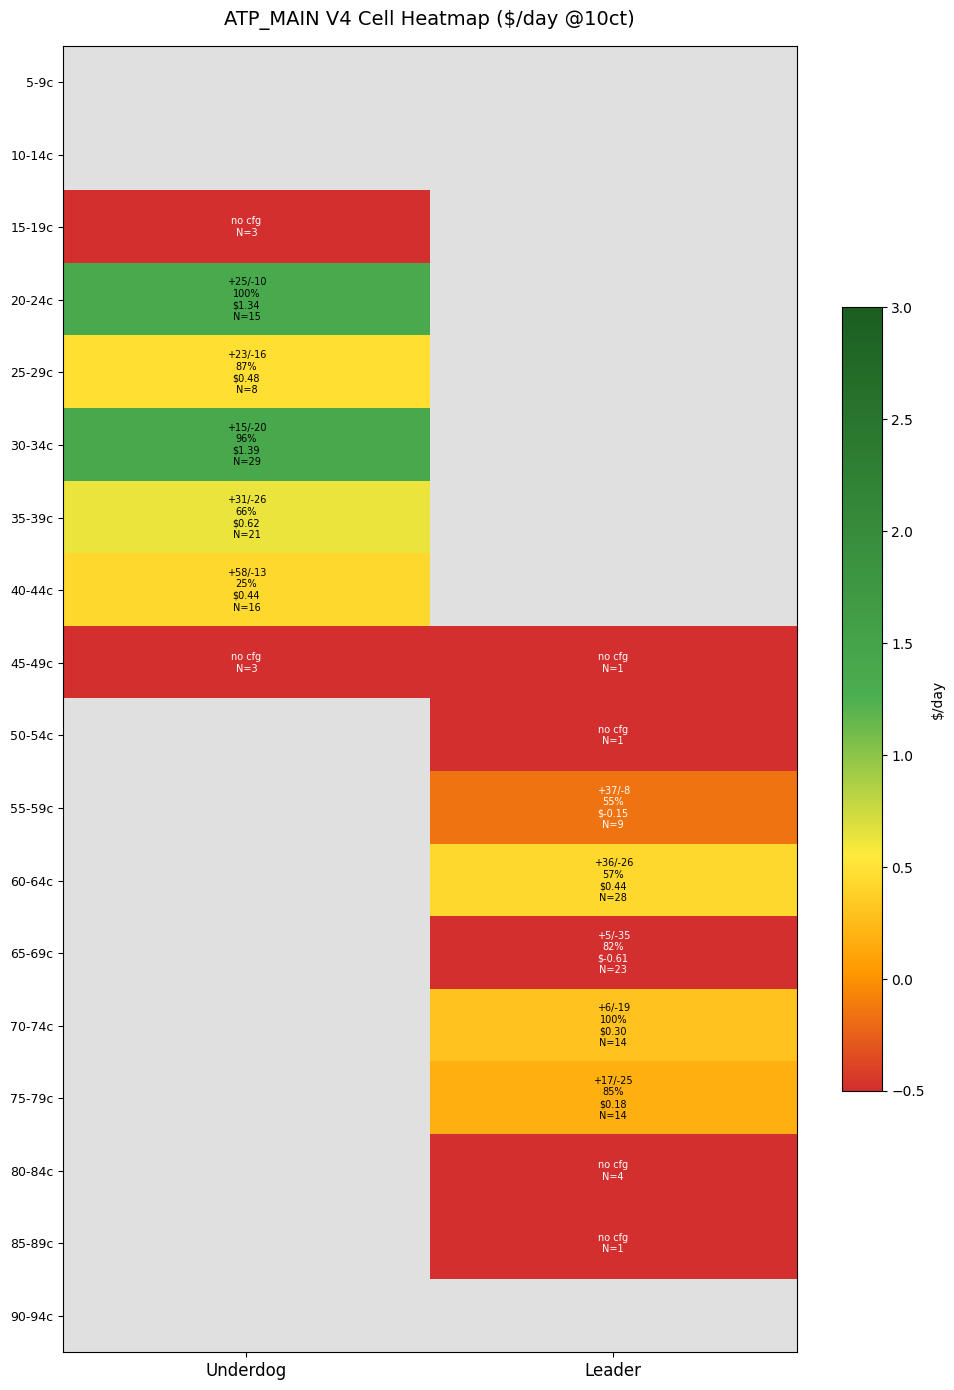
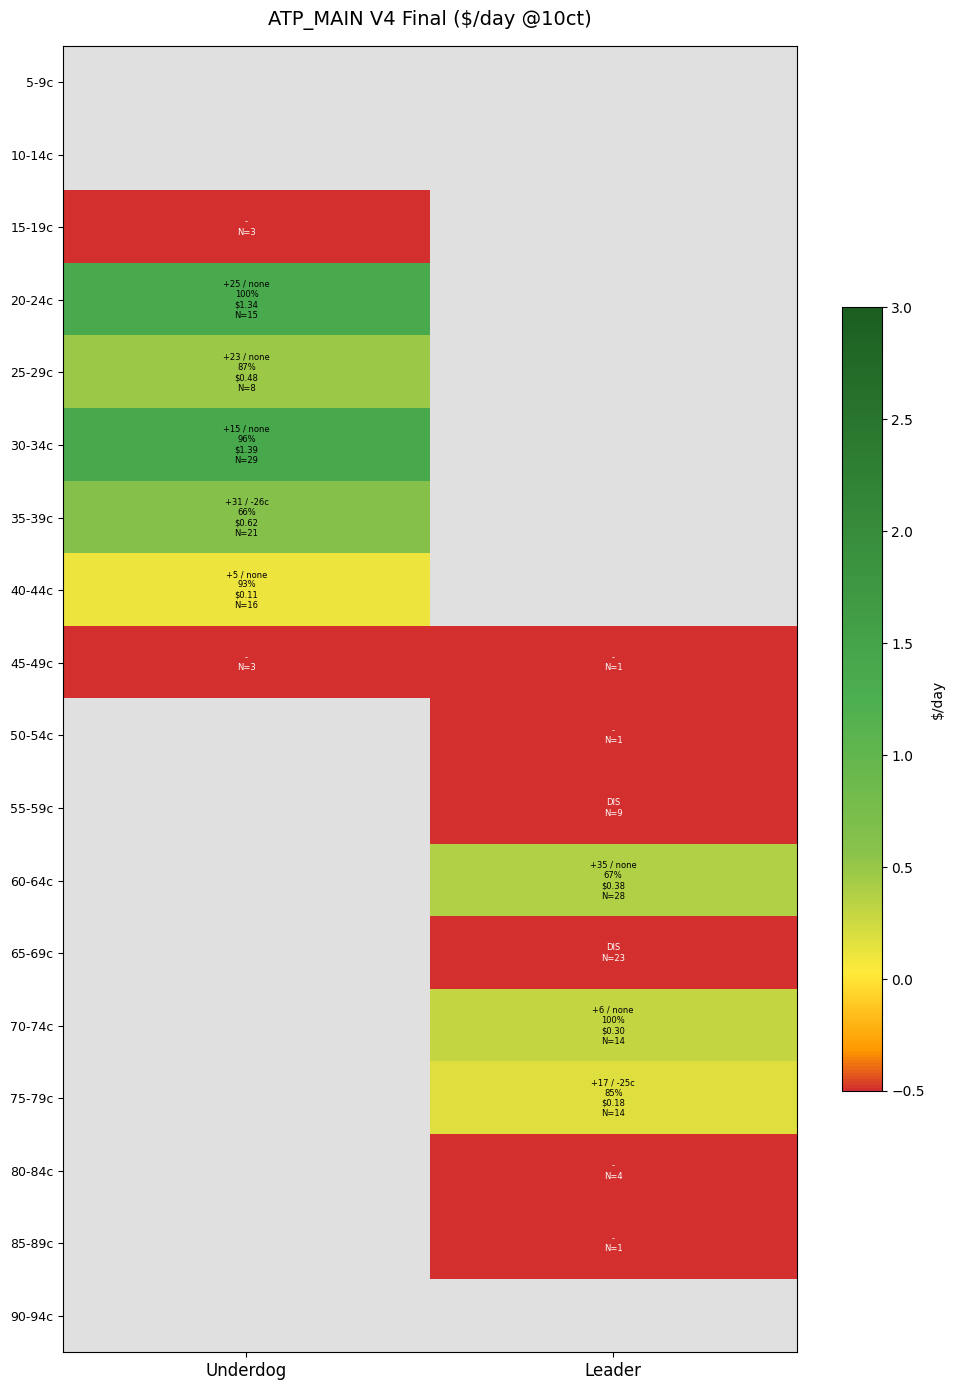
V4 final heatmaps: 32 cells, DCA visibility, pre-deploy visual confirmation

diff --git a/arb-executor/analysis/v4_final_heatmap.py b/arb-executor/analysis/v4_final_heatmap.py
@@ -1,0 +1,211 @@
+#!/usr/bin/env python3
+"""V4 final heatmap with DCA visibility."""
+import csv, json, os, math
+from pathlib import Path
+from collections import defaultdict
+import matplotlib
+matplotlib.use('Agg')
+import matplotlib.pyplot as plt
+import matplotlib.colors as mcolors
+import numpy as np
+
+ANALYSIS = "/root/Omi-Workspace/arb-executor/analysis"
+CONFIG_PATH = "/root/Omi-Workspace/arb-executor/config/deploy_v4.json"
+FACTS_PATH = os.path.join(ANALYSIS, "match_facts.csv")
+DAYS = 28; CT = 10
+
+config = json.load(open(CONFIG_PATH))
+
+facts_by_cell = defaultdict(list)
+with open(FACTS_PATH) as f:
+    for r in csv.DictReader(f):
+        entry = float(r["entry_mid"])
+        bucket = int(entry / 5) * 5
+        cell = "%s_%s_%d-%d" % (r["category"], r["side"], bucket, bucket + 4)
+        facts_by_cell[cell].append({
+            "max_bounce": float(r["max_bounce_from_entry"]),
+            "result": r["match_result"], "entry_mid": entry,
+        })
+
+BUCKETS = list(range(5, 95, 5))
+SIDES = ["underdog", "leader"]
+TOURS = ["ATP_MAIN", "ATP_CHALL", "WTA_MAIN", "WTA_CHALL"]
+
+def metrics(cell_name):
+    matches = facts_by_cell.get(cell_name, [])
+    n = len(matches)
+    cfg = config["active_cells"].get(cell_name)
+    disabled = cell_name in config.get("disabled_cells", [])
+    if not cfg or n == 0:
+        return {"n": n, "active": False, "disabled": disabled}
+    ex = cfg["exit_cents"]
+    dca = cfg.get("dca_trigger_cents", 0)
+    strategy = cfg.get("strategy", "noDCA")
+    hits = sum(1 for m in matches if m["max_bounce"] >= ex)
+    hit_rate = hits / n
+    total_pnl = 0
+    for m in matches:
+        if m["max_bounce"] >= ex:
+            total_pnl += ex
+        else:
+            settle = 99.5 if m["result"] == "win" else 0.5
+            total_pnl += (settle - m["entry_mid"])
+    ev = total_pnl / n
+    dpd = ev * CT / 100.0 * n / DAYS
+    dca_str = "-%dc" % dca if dca > 0 else "none"
+    return {"n": n, "active": True, "disabled": False, "exit": ex, "dca": dca,
+            "dca_str": dca_str, "strategy": strategy, "hit_rate": hit_rate, "dpd": dpd}
+
+# ASCII heatmaps
+for tour in TOURS:
+    print("\n" + "=" * 76)
+    print("  %s" % tour)
+    print("=" * 76)
+    print("%-8s | %-32s | %-32s" % ("BUCKET", "UNDERDOG", "LEADER"))
+    print("-" * 76)
+    for b in BUCKETS:
+        row = "%d-%dc  |" % (b, b+4)
+        for side in SIDES:
+            cell = "%s_%s_%d-%d" % (tour, side, b, b+4)
+            m = metrics(cell)
+            if m["active"]:
+                flag = "*" if m["n"] < 10 else ""
+                dca_part = "/ %s" % m["dca_str"]
+                txt = "+%d %s %d%% $%.2f N=%d%s" % (
+                    m["exit"], dca_part, 100*m["hit_rate"], m["dpd"], m["n"], flag)
+            elif m["disabled"]:
+                txt = "DISABLED (N=%d)" % m["n"]
+            elif m["n"] > 0:
+                txt = "- (N=%d)" % m["n"]
+            else:
+                txt = "-"
+            row += " %-32s|" % txt
+        print(row)
+
+# Cross-tour aggregate
+print("\n" + "=" * 76)
+print("  CROSS-TOUR AGGREGATE")
+print("=" * 76)
+print("%-8s | %-32s | %-32s" % ("BUCKET", "UNDERDOG", "LEADER"))
+print("-" * 76)
+for b in BUCKETS:
+    row = "%d-%dc  |" % (b, b+4)
+    for side in SIDES:
+        total_dpd = 0; total_n = 0; active_count = 0
+        for tour in TOURS:
+            cell = "%s_%s_%d-%d" % (tour, side, b, b+4)
+            m = metrics(cell)
+            if m["active"]:
+                total_dpd += m["dpd"]; active_count += 1
+            total_n += m["n"]
+        if active_count > 0:
+            txt = "$%.2f (%dt, N=%d)" % (total_dpd, active_count, total_n)
+        elif total_n > 0:
+            txt = "- (N=%d)" % total_n
+        else:
+            txt = "-"
+        row += " %-32s|" % txt
+    print(row)
+
+# PNGs
+def make_png(tour, out_path):
+    fig, ax = plt.subplots(figsize=(10, 14))
+    data = np.full((len(BUCKETS), 2), np.nan)
+    annotations = []
+    for i, b in enumerate(BUCKETS):
+        row_ann = []
+        for j, side in enumerate(SIDES):
+            cell = "%s_%s_%d-%d" % (tour, side, b, b+4)
+            m = metrics(cell)
+            if m["active"]:
+                data[i, j] = m["dpd"]
+                dca_part = "/ %s" % m["dca_str"]
+                txt = "+%d %s\n%d%%\n$%.2f\nN=%d" % (
+                    m["exit"], dca_part, 100*m["hit_rate"], m["dpd"], m["n"])
+            elif m["disabled"]:
+                data[i, j] = -0.5
+                txt = "DIS\nN=%d" % m["n"]
+            elif m["n"] > 0:
+                data[i, j] = -1
+                txt = "-\nN=%d" % m["n"]
+            else:
+                txt = ""
+            row_ann.append(txt)
+        annotations.append(row_ann)
+    cmap = mcolors.LinearSegmentedColormap.from_list("ev",
+        [(0, "#d32f2f"), (0.05, "#ff9800"), (0.15, "#ffeb3b"),
+         (0.3, "#8bc34a"), (0.5, "#4caf50"), (1.0, "#1b5e20")])
+    cmap.set_bad(color='#e0e0e0')
+    vmax = max(3, np.nanmax(data))
+    im = ax.imshow(data, cmap=cmap, vmin=-0.5, vmax=vmax, aspect='auto')
+    ax.set_xticks([0, 1]); ax.set_xticklabels(["Underdog", "Leader"], fontsize=12)
+    ax.set_yticks(range(len(BUCKETS)))
+    ax.set_yticklabels(["%d-%dc" % (b, b+4) for b in BUCKETS], fontsize=9)
+    ax.set_title("%s V4 Final ($/day @10ct)" % tour, fontsize=14, pad=15)
+    for i in range(len(BUCKETS)):
+        for j in range(2):
+            if annotations[i][j]:
+                color = "white" if (not np.isnan(data[i,j]) and (data[i,j] > 1.5 or data[i,j] < 0)) else "black"
+                ax.text(j, i, annotations[i][j], ha="center", va="center", fontsize=6, color=color)
+    plt.colorbar(im, ax=ax, label="$/day", shrink=0.6)
+    plt.tight_layout()
+    plt.savefig(out_path, dpi=100, bbox_inches='tight')
+    plt.close()
+
+for tour in TOURS:
+    p = os.path.join(ANALYSIS, "v4_heatmap_%s.png" % tour)
+    make_png(tour, p)
+    print("Saved: %s" % p)
+
+# Summary
+print("\n" + "=" * 60)
+print("FINAL V4 SUMMARY")
+print("=" * 60)
+
+nodca_dpd = 0; nodca_n = 0
+dca_dpd = 0; dca_n = 0
+for cell, cfg in config["active_cells"].items():
+    m = metrics(cell)
+    if not m["active"]:
+        continue
+    if cfg.get("strategy") == "DCA-A":
+        dca_dpd += m["dpd"]; dca_n += 1
+    else:
+        nodca_dpd += m["dpd"]; nodca_n += 1
+
+total_dpd = nodca_dpd + dca_dpd
+cap = sum(sum(mm["entry_mid"] for mm in facts_by_cell.get(c, [])) / max(len(facts_by_cell.get(c,[])),1)
+          * CT / 100.0 * len(facts_by_cell.get(c,[])) / DAYS
+          for c in config["active_cells"])
+
+print("\nActive cells: %d" % (nodca_n + dca_n))
+print("  noDCA: %d ($%.2f/day)" % (nodca_n, nodca_dpd))
+print("  DCA-A: %d ($%.2f/day)" % (dca_n, dca_dpd))
+print("Aggregate $/day: $%.2f" % total_dpd)
+print("Daily capital: $%.2f" % cap)
+print("Daily ROI: %.1f%%" % (100 * total_dpd / cap if cap else 0))
+print("\nDisabled cells: %d" % len(config["disabled_cells"]))
+for d in sorted(config["disabled_cells"]):
+    print("  %s" % d)
+
+# Concerns
+print("\nRemaining config concerns:")
+concerns = []
+for cell, cfg in config["active_cells"].items():
+    m = metrics(cell)
+    if not m["active"]:
+        continue
+    if m["n"] < 10:
+        concerns.append("  %s: N=%d (low sample)" % (cell, m["n"]))
+    avg = sum(mm["entry_mid"] for mm in facts_by_cell[cell]) / m["n"]
+    if avg + cfg["exit_cents"] > 99:
+        concerns.append("  %s: entry %.0f + exit %d = %.0f > 99 (invalid)" % (cell, avg, cfg["exit_cents"], avg + cfg["exit_cents"]))
+    if m["dpd"] < 0.05:
+        concerns.append("  %s: $/day=$%.2f (marginal)" % (cell, m["dpd"]))
+if concerns:
+    for c in concerns:
+        print(c)
+else:
+    print("  None")
+
+print("\nDONE")
